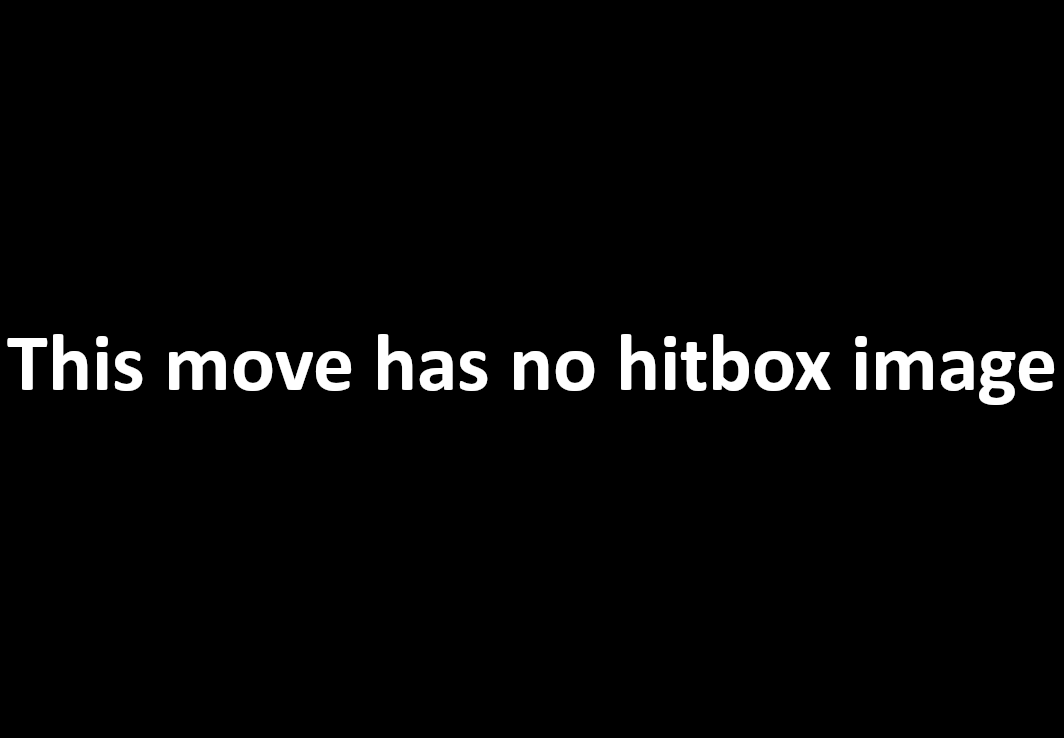
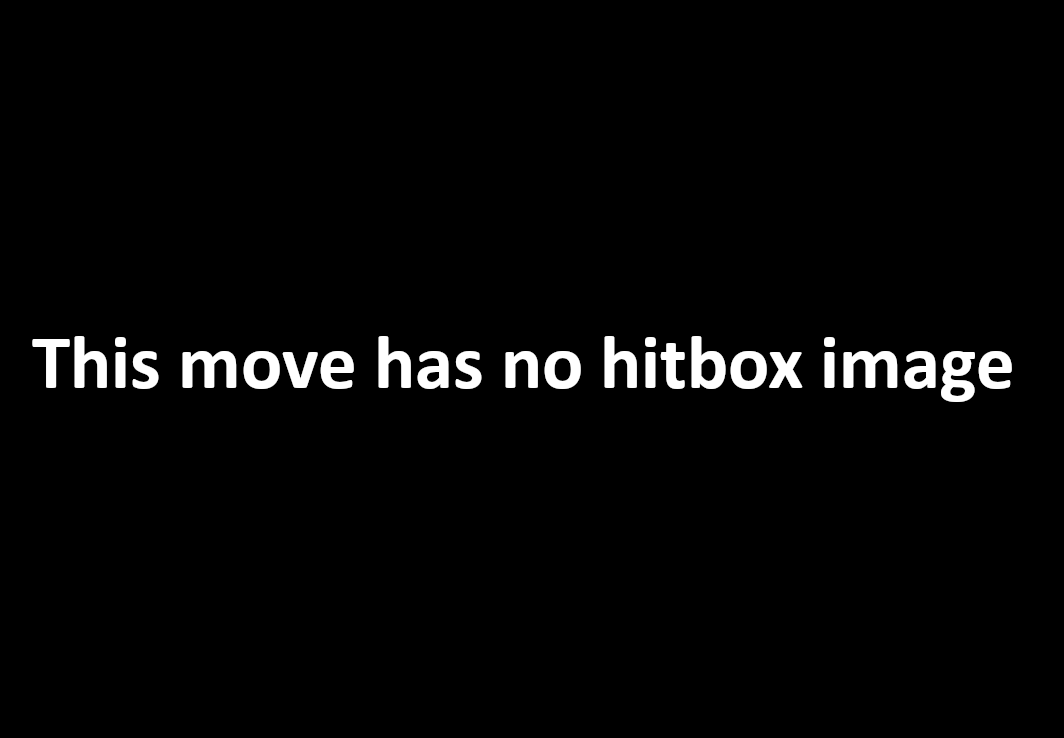
added default images in case of move without image

Changed region(s): [[0.3722, 0.4363, 0.9925, 0.561], [0.0, 0.4363, 0.3412, 0.5298]]

diff --git a/src/commands/hitboxes.rs b/src/commands/hitboxes.rs
@@ -7,6 +7,8 @@ use serenity::prelude::*;
 
 use crate::{CHARS, Frames, MoveAliases, ImageLinks, check};
 
+const IMAGE_DEFAULT: &str = "https://raw.githubusercontent.com/yakiimoninja/baiken/main/src/commands/images/no_hitbox.png";
+
 #[command]
 #[aliases("hitbox","hit", "h")]
 async fn hitboxes(ctx: &Context, msg: &Message, mut args: Args) -> CommandResult {
@@ -120,13 +122,25 @@ async fn hitboxes(ctx: &Context, msg: &Message, mut args: Args) -> CommandResult
                             move_found = true;
                             println!("Succesfully read move '{}' in '{}.json' file.", &move_frames[m].input.to_string(), &CHARS.0[c]);
 
-                            // Priting hitboxes in discord chat
-                            let bot_msg = "__**Move: ".to_owned() + &image_links[m].input + "**__";
-                            msg.channel_id.say(&ctx.http, &bot_msg).await?;
+                            
+                            if image_links[y].hitbox_img[0].is_empty() == false {
 
-                            for i in 0..image_links[y].hitbox_img.len() {                        
-                                msg.channel_id.say(&ctx.http, &image_links[y].hitbox_img[i]).await?;
+                                // Priting hitboxes in discord chat
+                                let bot_msg = "__**Move: ".to_owned() + &image_links[y].input + "**__";
+                                msg.channel_id.say(&ctx.http, &bot_msg).await?;
+
+                                for i in 0..image_links[y].hitbox_img.len() {                        
+                                    msg.channel_id.say(&ctx.http, &image_links[y].hitbox_img[i]).await?;
+                                }
                             }
+                            else{
+                                
+                                // Priting hitboxes in discord chat
+                                let bot_msg = "__**Move: ".to_owned() + &image_links[m].input + "**__";
+                                msg.channel_id.say(&ctx.http, &bot_msg).await?;
+                                msg.channel_id.say(&ctx.http, &IMAGE_DEFAULT).await?;
+                            }
+                            
                         }
                     }
                     break;

diff --git a/src/commands/frames.rs b/src/commands/frames.rs
@@ -59,7 +59,7 @@ async fn frames(ctx: &Context, msg: &Message, mut args: Args) -> CommandResult {
 
     // Initializing variables for the embed
     // They must not be empty cause then the embed wont send
-    let mut image_embed = "https://raw.githubusercontent.com/yakiimoninja/baiken/main/src/commands/no_image.png".to_string();
+    let mut image_embed = "https://raw.githubusercontent.com/yakiimoninja/baiken/main/src/commands/images/no_image.png".to_string();
     let mut damage_embed = "-".to_string();
     let mut guard_embed = "-".to_string();
     let mut invin_embed = "-".to_string();
